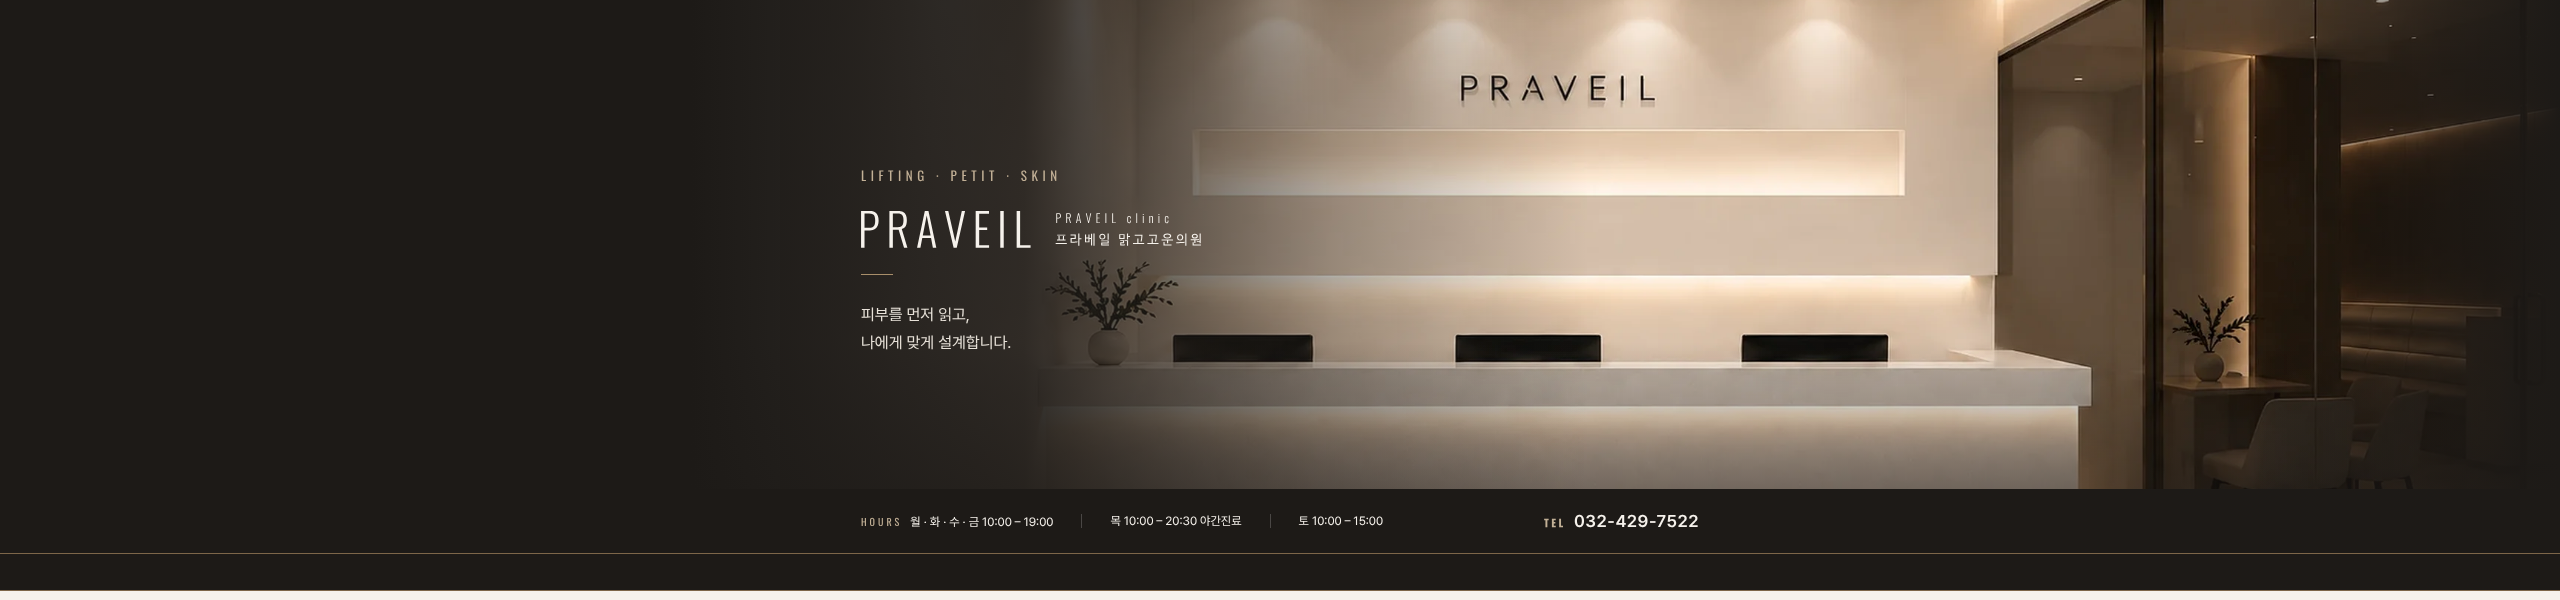
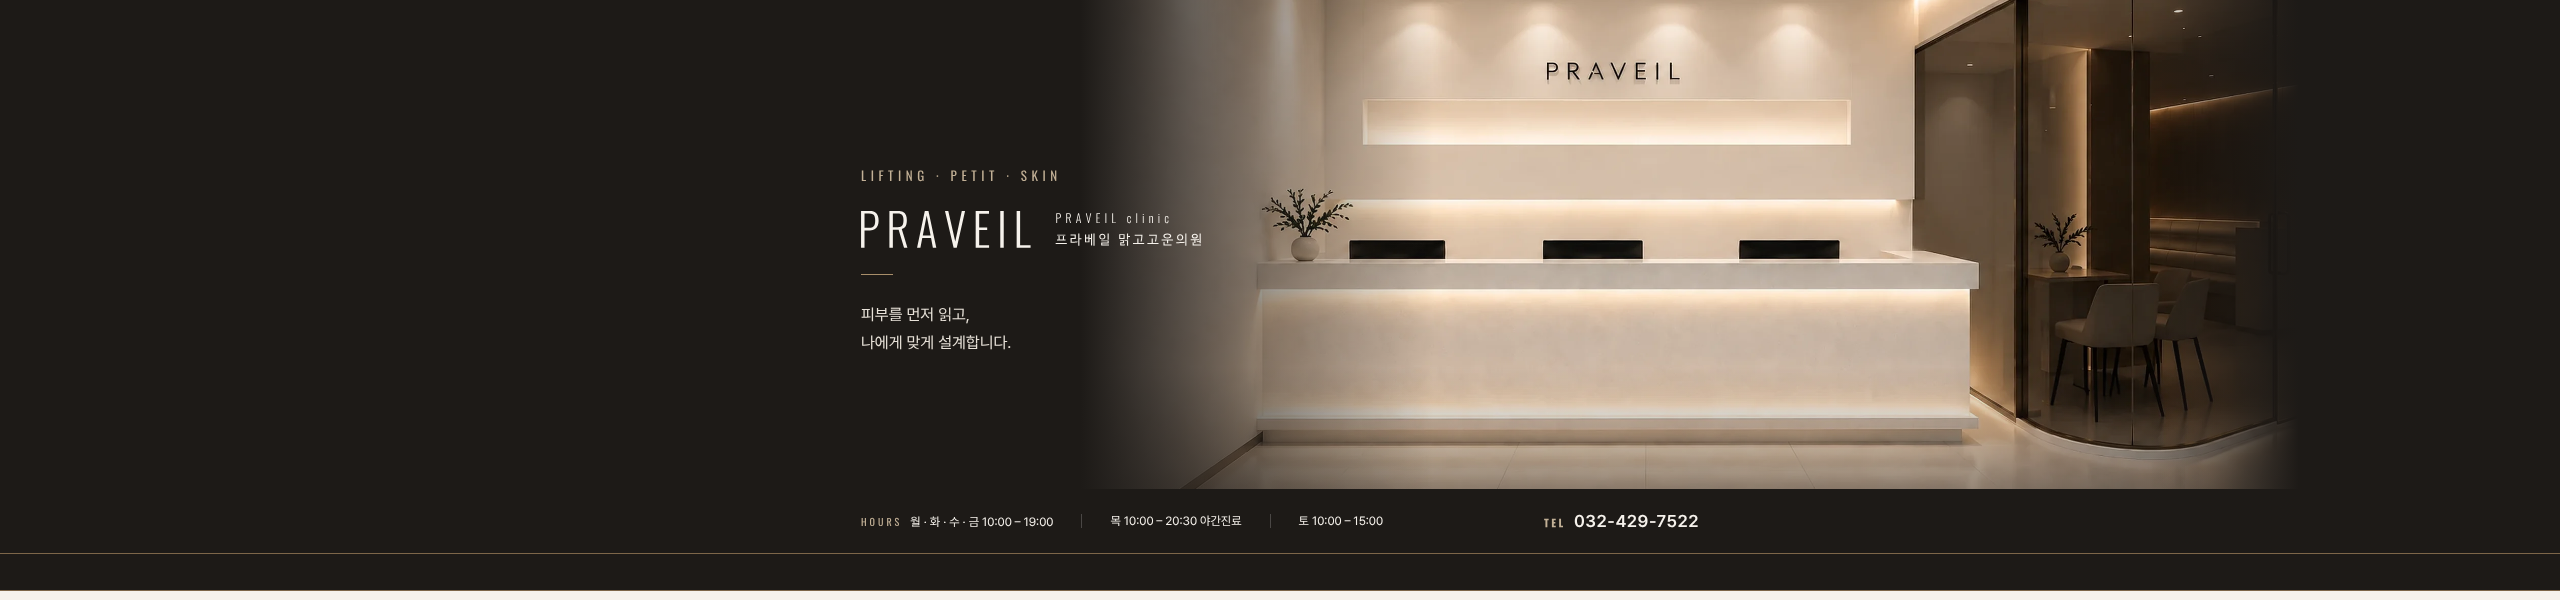
네이버 블로그 사진형 머리: 인테리어가 멀리서 보이게 작게 배치, 입구 사진 시안 추가
Claude-Session: https://claude.ai/code/session_01Ld2YJmc6iArSkVBjrjkKUN

Changed region(s): [[0.4062, 0.0, 0.9688, 0.84]]

diff --git a/docs/naver-blog-skin/skin.html b/docs/naver-blog-skin/skin.html
@@ -205,24 +205,30 @@
 
       /* 시안: 머리 배경을 병원 입구 사진으로 꽉 채우고, 왼쪽을 어둡게 깔아 글씨를 올림
          (세로 위치 · 진료시간 띠 · 메뉴 띠는 위 배경과 같음) */
-      #background-photo {
+      #background-photo,
+      #background-photo-2 {
         width: 2560px;
         height: 600px;
         background: var(--ivory);
       }
-      #background-photo .shot {
+      #background-photo .shot,
+      #background-photo-2 .shot {
         position: absolute;
-        left: 780px;
+        left: 1080px;
         top: 0;
-        width: 1780px;
+        width: 1220px;
         height: 489px;
         overflow: hidden;
       }
       #background-photo .shot .photo {
-        object-position: 50% 38%;
+        object-position: 50% 62%;
+      }
+      #background-photo-2 .shot .photo {
+        object-position: 50% 58%;
       }
       /* 글씨 쪽은 짙게, 사진 쪽은 밝게. 양 끝은 짙은 색으로 맞춰 가로 반복해도 이음매가 없음 */
-      #background-photo .shade {
+      #background-photo .shade,
+      #background-photo-2 .shade {
         position: absolute;
         left: 0;
         right: 0;
@@ -231,16 +237,16 @@
         background:
           linear-gradient(
             90deg,
-            var(--espresso) 27%,
-            rgba(29, 26, 23, 0.9) 40%,
-            rgba(29, 26, 23, 0.35) 52%,
-            rgba(29, 26, 23, 0) 62%,
-            rgba(29, 26, 23, 0) 88%,
-            var(--espresso) 100%
+            var(--espresso) 42.2%,
+            rgba(29, 26, 23, 0.55) 48%,
+            rgba(29, 26, 23, 0) 56%,
+            rgba(29, 26, 23, 0) 84%,
+            var(--espresso) 89.8%
           ),
-          linear-gradient(rgba(29, 26, 23, 0) 70%, rgba(29, 26, 23, 0.5) 100%);
+          linear-gradient(rgba(29, 26, 23, 0) 75%, rgba(29, 26, 23, 0.45) 100%);
       }
-      #background-photo .copy {
+      #background-photo .copy,
+      #background-photo-2 .copy {
         position: absolute;
         left: 861px;
         top: 33px;
@@ -251,14 +257,17 @@
         gap: 26px;
         color: var(--ivory);
       }
-      #background-photo .copy .en {
+      #background-photo .copy .en,
+      #background-photo-2 .copy .en {
         font-size: 13px;
         color: var(--taupe);
       }
-      #background-photo .logo {
+      #background-photo .logo,
+      #background-photo-2 .logo {
         width: 340px;
       }
-      #background-photo .lead {
+      #background-photo .lead,
+      #background-photo-2 .lead {
         font-size: 16px;
         line-height: 1.75;
         color: var(--line);
@@ -699,10 +708,38 @@
       <div class="menu"></div>
     </section>
 
-    <!-- 2-1. 시안: 사진을 꽉 채운 머리 배경 -->
+    <!-- 2-1. 시안: 로비 사진 (멀리서 본 듯 작게) -->
     <section class="asset hb" id="background-photo">
       <div class="shot">
         <img class="photo" src="../../public/images/photos/hero-lobby.webp" />
+      </div>
+      <div class="shade"></div>
+      <div class="copy">
+        <p class="en">Lifting · Petit · Skin</p>
+        <div class="logo">{{LOGO}}</div>
+        <div class="rule"></div>
+        <p class="lead">피부를 먼저 읽고,<br />나에게 맞게 설계합니다.</p>
+      </div>
+      <div class="strip">
+        <span
+          ><span class="en">Hours</span>월 · 화 · 수 · 금 10:00 – 19:00</span
+        >
+        <i class="bar"></i>
+        <span>목 10:00 – 20:30 야간진료</span>
+        <i class="bar"></i>
+        <span>토 10:00 – 15:00</span>
+        <p class="tel"><span class="en">Tel</span>032-429-7522</p>
+      </div>
+      <div class="menu"></div>
+    </section>
+
+    <!-- 2-2. 시안: 입구 밖에서 본 사진 -->
+    <section class="asset hb" id="background-photo-2">
+      <div class="shot">
+        <img
+          class="photo"
+          src="../../public/images/photos/hero-entrance.webp"
+        />
       </div>
       <div class="shade"></div>
       <div class="copy">
